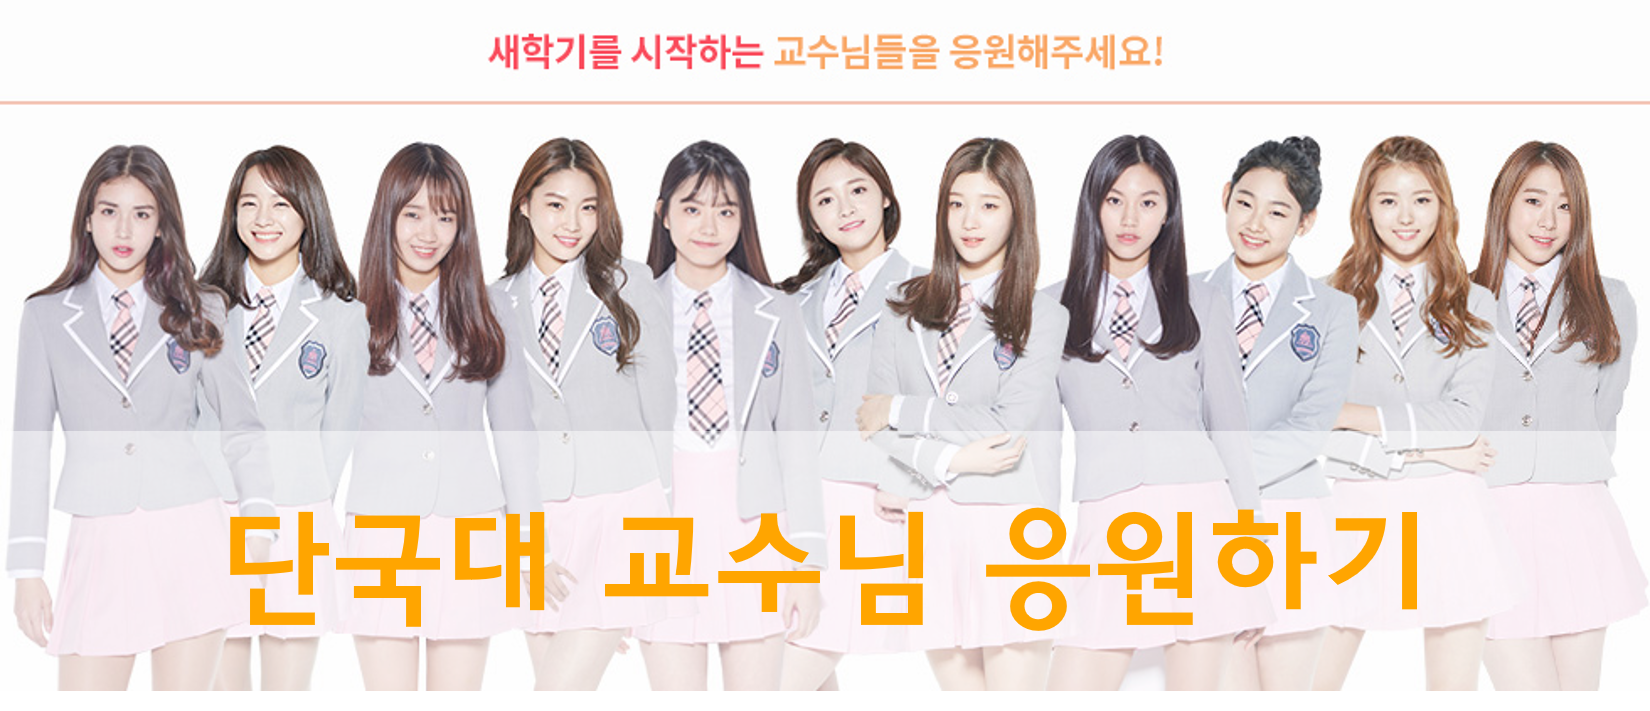
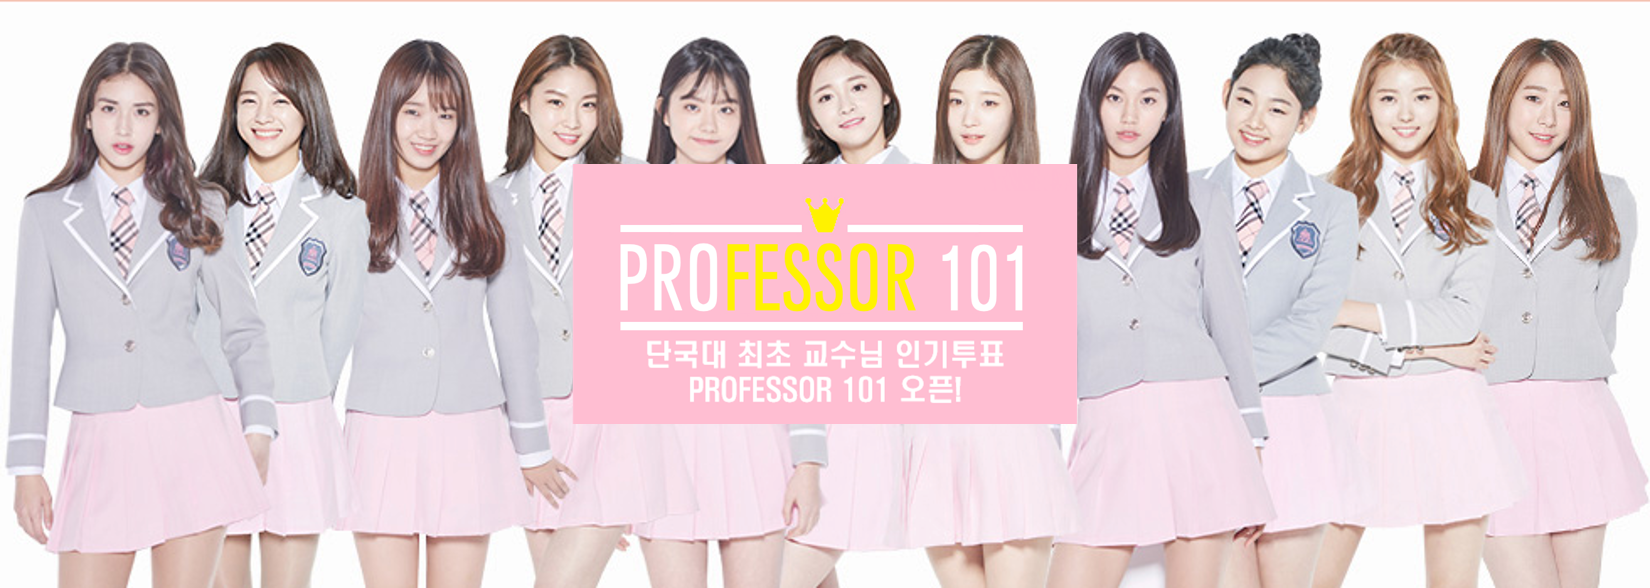
pickme 에러 수정

diff --git a/app/assets/javascripts/_sns.js b/app/assets/javascripts/_sns.js
@@ -1,0 +1,79 @@
+$(document).ready(function(){
+    Kakao.init('7e3aa98e684187d276527a58c44f3e36');
+
+    var msg;
+    var output;
+    var urlName =  $(location).attr('hostname');
+    var page_url = window.location.href;
+    var kakao_image = $('#kakao_image').attr("content");
+    // console.log(page_url + "assets/hopelight.jpg");
+    function kakaoToggle(e){
+      Kakao.Link.sendTalkLink({
+        label: e,
+        image: {
+          src: page_url + "dku/3.jpg",
+          width: '100',
+          height: '100'
+        },
+        webButton: {
+          text: '응원메세지',
+          url: urlName
+        }
+      });
+    }
+
+    $(".kakao-link-btn").click(function(){
+      var msg = "#" + $(this).data("kakao");
+      var output = $(msg).text();
+
+      kakaoToggle(output);
+      console.log(kakao_image);
+
+    });
+// 1031554063618569
+// 588782887970593
+    // 페이스북
+    (function(d, s, id) {
+      var js, fjs = d.getElementsByTagName(s)[0];
+      if (d.getElementById(id)) return;
+      js = d.createElement(s); js.id = id;
+      js.src = "//connect.facebook.net/ko_KR/sdk.js#xfbml=1&version=v2.6&appId=588782887970593";
+      fjs.parentNode.insertBefore(js, fjs);
+    }(document, 'script', 'facebook-jssdk'));
+
+
+    $('.fshare').click(function(){
+      var msg = "#" + $(this).data("facebook");
+      var output = $(msg).text();
+      FB.ui({
+          method: 'feed',
+          name: '소아암 인식개선 희망별빛 캠페인',
+          link: page_url,
+          picture: kakao_image,
+          caption: '한국백혈병어린이재단',
+          description: output
+      });
+    });
+  // });
+// 트위터
+   $('.btn-tw').on('click', function(e) {
+      e.preventDefault();
+      var message_id  = $(this).data("id");
+      var message = $("#" + message_id).text();
+      var url = "https://twitter.com/intent/tweet?text=" + message + "&url="+ page_url;
+      window.open(url);
+    });
+// //밴드
+//   $(".btn-band").click(function(e){
+//     e.preventDefault();
+//
+//     var urlName =  $(location).attr('hostname');
+//     var message_id  = $(this).data("id");
+//     var message = $("#"+ message_id).text();
+//     var url =   "http://band.us/plugin/share?body=" + message +  "%0Ahttp%3A%2F%2F"
+//       + urlName + "%2Fhome%2Findex%3Fpage%3D1&route="
+//       + urlName
+//     window.open(url);
+//   });
+
+});

diff --git a/app/controllers/pickme_controller.rb b/app/controllers/pickme_controller.rb
@@ -25,7 +25,7 @@ class PickmeController < ApplicationController
   end
 
   def upvote
-    if current_user.find_up_voted_items.size < 3
+    if current_user.votes.where(votable_type: "Professor", vote_flag: true).size < 3
       @prof.upvote_by current_user
       flash[:success] = "#{@prof.name} 교수님을 응원하셨습니다."
     elsif current_user.voted_up_on? @prof

diff --git a/app/controllers/home_controller.rb b/app/controllers/home_controller.rb
@@ -20,6 +20,8 @@ class HomeController < ApplicationController
     #   format.js
     #   format.html
     # end
+    @professors_11 = Professor.order("cached_votes_score DESC").take(11)
+
   end
 
   def certify
